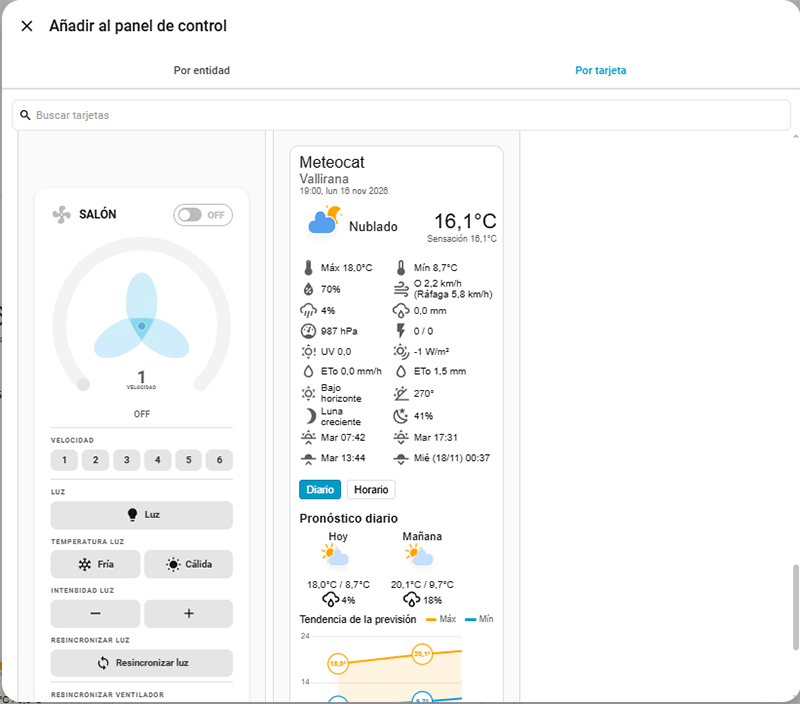
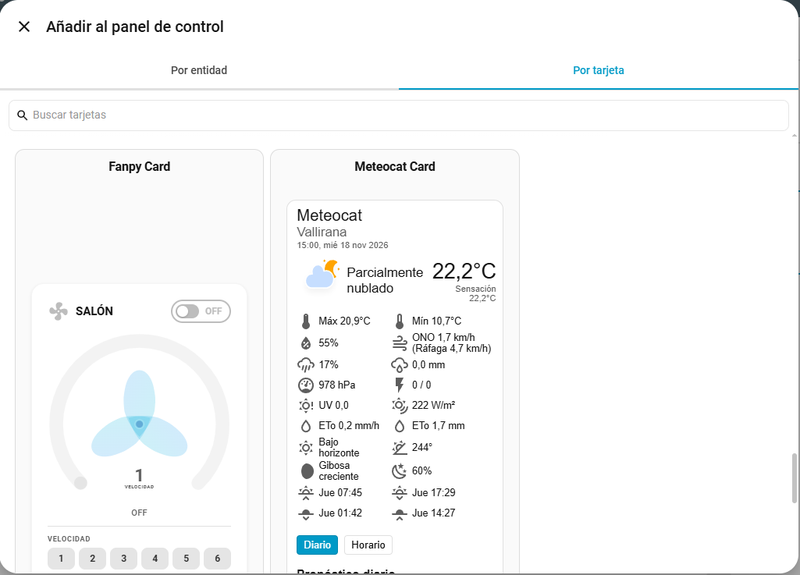
docs: refresh screenshots and configuration examples
Replace outdated editor captures, add the current alert and chart images, and update the YAML examples with the latest options.

diff --git a/README.md b/README.md
@@ -162,11 +162,7 @@ s-rainy-night.svg
 
       #### Visual editor example
 
-      ![Meteocat Card visual editor 01](images/visual_editor_01.png)
-
-      ![Meteocat Card visual editor 02](images/visual_editor_02.png)
-
-      ![Meteocat Card visual editor 03](images/visual_editor_03.png)
+      ![Meteocat Card visual editor](images/visual_editor.png)
 
    - And **save**
 
@@ -187,6 +183,9 @@ s-rainy-night.svg
    option_show_moon_times: true
    option_show_chart: true
    option_detail_tap_more_info: true
+   option_show_eto: true
+   option_show_alert_badges: true
+   option_alert_details_collapsed: true
    debug: false
    fade_duration: 0.3
    ```
@@ -198,11 +197,7 @@ s-rainy-night.svg
 
       #### Code editor example
 
-      ![Meteocat Card code editor 01](images/code_editor_01.png)
-
-      ![Meteocat Card code editor 01](images/code_editor_02.png)
-
-      ![Meteocat Card code editor 01](images/code_editor_03.png)
+      ![Meteocat Card code editor](images/code_editor.png)
 
       ```yaml
       type: custom:meteocat-card
@@ -216,6 +211,10 @@ s-rainy-night.svg
       option_show_moon_info: true
       option_show_moon_times: true
       option_show_chart: true
+      option_show_eto: true
+      option_detail_tap_more_info: true
+      option_show_alert_badges: true
+      option_alert_details_collapsed: true
       debug: false
       fade_duration: 0.3
       ```
@@ -226,6 +225,8 @@ s-rainy-night.svg
    - Temperature, humidity, pressure, wind speed, bearing, gust, precipitation, precipitation probability, uv index, sunset* and sunrise*
    - Daily forecast
    - Hourly forecast
+   - Forecast trend chart (shown by default)
+   - SMP alerts with full-width rows, expiry, and clickable details
 
 ## Configuration Options
 
@@ -251,6 +252,10 @@ s-rainy-night.svg
 
 With `option_detail_tap_more_info: true` (default), current metrics, temperature, and feels-like are clickable when they have a dedicated entity configured or discovered. Clicking, or pressing Enter/Space, opens Home Assistant's more-info dialog for that entity. Values read from weather attributes without their own entity are not marked as clickable.
 
+![Meteocat Card current details hover](images/current_details_hover.png)
+
+![Meteocat Card current details more info](images/current_details_more_info.png)
+
 ### Alert badges and collapsed details
 
 When Meteocat reports active alerts, the card displays one full-width row for each alert type. Each row uses a warm solid variation of the official SMP danger color based on the `peligro` attribute: moderate (`1-2`, yellow), high (`3-4`, orange), and very high (`5-6`, red). The color is applied to the left border and icon, with a matching light background and high-contrast text. The row also includes the alert type, a text level, and the end time when available, so the severity is not conveyed by color alone and long alert names have room to wrap. Rows are ordered by expiry time, soonest first; if two alerts expire at the same time, the higher danger level is shown first.
@@ -274,6 +279,27 @@ The forecast trend chart is shown by default; set `option_show_chart: false` to 
 
 The legend entries are interactive. In the daily view, **Max** and **Min** scroll to the day with the highest maximum or lowest minimum temperature. In the hourly view, the temperature group exposes **Max** and **Min** actions, and the rain group exposes **Start** and **Max** actions. The chart and forecast cards move together to the selected position. Only the circle for the highest maximum temperature and the circle for the lowest minimum temperature are enlarged; the rest keep their normal size, and the buttons only scroll to the relevant point. The peak rain badge and value are also enlarged. The actions inside the hourly legend are separated with a slash.
 
+![Meteocat Card daily forecast trend chart](images/chart_daily.png)
+
+![Meteocat Card hourly forecast trend chart](images/chart_hourly.png)
+
+#### Legend actions
+
+<table>
+  <tr>
+    <td><img src="images/daily_temp_max_button.png" alt="Daily maximum temperature action" width="300"></td>
+    <td><img src="images/daily_temp_min_button.png" alt="Daily minimum temperature action" width="300"></td>
+  </tr>
+  <tr>
+    <td><img src="images/hourly_temp_max_button.png" alt="Hourly maximum temperature action" width="300"></td>
+    <td><img src="images/hourly_temp_min_button.png" alt="Hourly minimum temperature action" width="300"></td>
+  </tr>
+  <tr>
+    <td><img src="images/hourly_first_rain_button.png" alt="First rain action" width="300"></td>
+    <td><img src="images/hourly_max_rain_button.png" alt="Maximum rain action" width="300"></td>
+  </tr>
+</table>
+
 ## Notes
 
 - Make sure your Meteocat integration provides a Weather entity (not just individual sensors) to get full card functionality.
@@ -296,6 +322,10 @@ option_show_sun_times: true
 option_show_moon_info: true
 option_show_moon_times: true
 option_show_chart: true
+option_show_eto: true
+option_detail_tap_more_info: true
+option_show_alert_badges: true
+option_alert_details_collapsed: true
 debug: false
 fade_duration: 0.3
 ```
@@ -313,6 +343,11 @@ option_show_sun_info: true
 option_show_sun_times: true
 option_show_moon_info: true
 option_show_moon_times: true
+option_show_eto: true
+option_show_chart: true
+option_detail_tap_more_info: true
+option_show_alert_badges: true
+option_alert_details_collapsed: true
 debug: false
 fade_duration: 0.3
 ```
@@ -330,6 +365,11 @@ option_show_sun_info: true
 option_show_sun_times: true
 option_show_moon_info: true
 option_show_moon_times: true
+option_show_eto: true
+option_show_chart: true
+option_detail_tap_more_info: true
+option_show_alert_badges: true
+option_alert_details_collapsed: true
 debug: false
 fade_duration: 0.3
 ```
